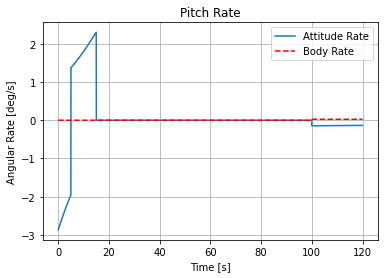
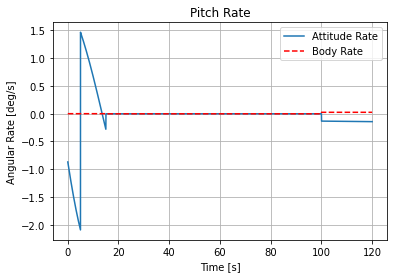
Fixed math error

diff --git a/Sims/Python/IMU_Sim_9_3_2022/mathUtilities.py b/Sims/Python/IMU_Sim_9_3_2022/mathUtilities.py
@@ -56,7 +56,7 @@ def EulerKinematic(angles, BodyRate):
     # 1/cos(90) = undefined
     
     R = np.array([[1, np.sin(roll)*np.tan(pitch), np.cos(roll)*np.tan(pitch)], 
-                  [0, np.cos(pitch), -np.sin(pitch)],
+                  [0, np.cos(roll), -np.sin(roll)],
                   [0, np.sin(roll)/np.cos(pitch), np.cos(roll)/np.cos(pitch)]])
     
     # Body Rates [p,q,r].' from the gyroscope
